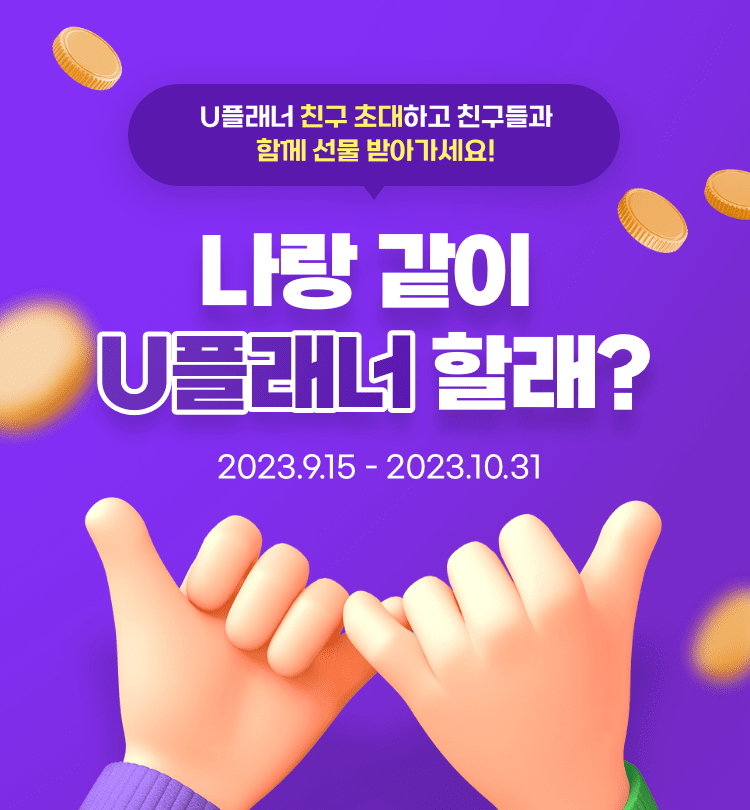
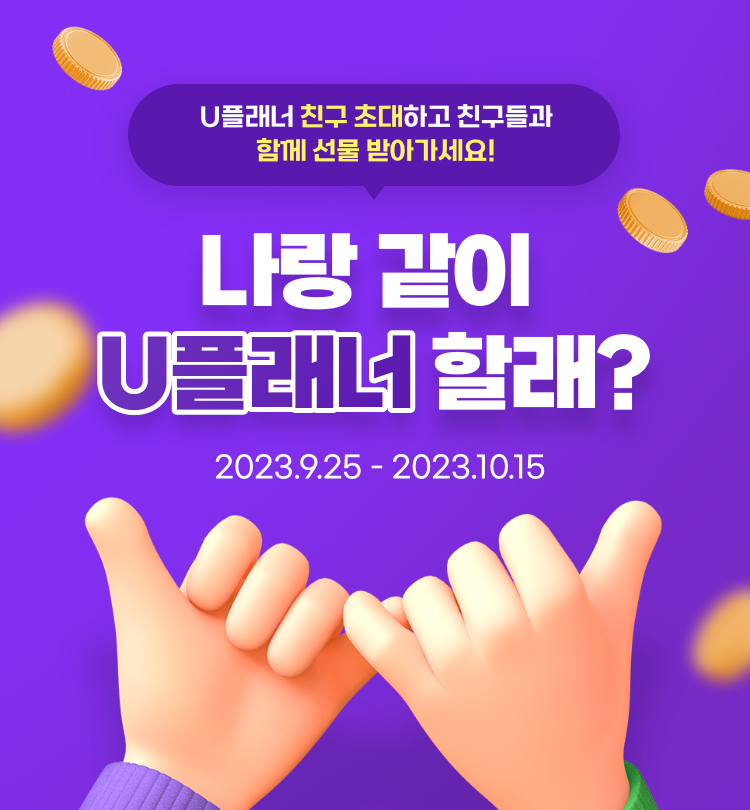
UPLAN-283 친구초대 이벤트 기간, 푸터 텍스트 수정

Changed region(s): [[0.276, 0.5556, 0.736, 0.6173]]

diff --git a/src/html/pages-2301/친구초대이벤트_소개_01_마이데이터연결.html b/src/html/pages-2301/친구초대이벤트_소개_01_마이데이터연결.html
@@ -43,7 +43,7 @@
 								복사하기</button>
 						</div>
 						<div class="btn-wrap">
-							<button class="btn btn-purple-bg btn-block font-weight-bolder">초대 코드 받으러 가기</button>
+							<button class="btn btn-purple-bg btn-block ">초대 링크 공유하기</button>
 						</div>
 					</div>
 					<p class="desc text-white mt-10">
@@ -57,13 +57,12 @@
 					<h3 class="h3">나의 초대 현황</h3>
 					<ul class="mb-10">
 						<li class="coupon-box bg_light_gray mb-10">
-							<p class="new">
-								신규 가입한 친구</p>
+							<p class="new">신규 가입한 친구</p>
 							<p class="number"><span>15</span>명</p>
 						</li>
 						<li class="coupon-box bg-purple text-white">
 							<p>내 보유 교환권</p>
-							<p class="number"><span>10</span>장</p>
+							<p class="number own"><span>10</span>장</p>
 						</li>
 					</ul>
 					<p class="desc">교환권은 <span class="f-point">최대 20장</span>까지 받을 수 있어요.</p>
@@ -71,7 +70,7 @@
 					<div class="order-period text-center">
 						<h3 class="h3">상품 주문 기간</h3>
 						<div class="date">
-							~ 23.11.05 까지
+							~ 2023.10.18 23시
 							<p class="badge badge-pink">D-6</p>
 						</div>
 						<div class="btn-warp">
@@ -82,15 +81,14 @@
 			</div>
 		</div>
 
-		<!-- footer 기획 미정으로 추후 해당 내용 반영할 예정 -->
 		<div class="footer">
 			<h4 class="h4">안내사항</h4>
 			<div class="notice">
 				<h5>[이벤트 기간]</h5>
-				<ul>
-					<li>ㆍ이벤트 참여 기간 : 2023. 09.18 ~</li>
-					<li>ㆍ경품 주문 기간 : 2023.09.18 ~ 10.</li>
-					<li>ㆍ경품 발송 : 2023.10</li>
+				<ul class="text-indent">
+					<li>ㆍ교환권 적립 가능 기간 : 2023.09.25 11시~10.15 23시</li>
+					<li>ㆍ경품 주문 기간 : 2023.09.25 11시~10.18 23시</li>
+					<li>ㆍ경품 발송 기간 : 2023.10.19 ~10.20 &#40;LMS 기프티콘 개별 발송&#41;</li>
 				</ul>
 				<ul class="mt-20">
 					<li>

diff --git a/src/scss/style/modules/event.scss b/src/scss/style/modules/event.scss
@@ -555,9 +555,8 @@ input[type=number] {
           }
 
           .code {
-            font-family: var(--font1);
+            font-family: var(--font2);
             font-size: 20px;
-            font-weight: 500;
             line-height: 24px;
             color: #c2c1cc;
           }
@@ -569,7 +568,6 @@ input[type=number] {
             height: 56px;
             line-height: 56px;
             border-radius: 10px;
-            font-weight: bold;
           }
         }
       }
@@ -600,6 +598,7 @@ input[type=number] {
       justify-content: space-between;
       align-items: center;
       padding: 18px 20px;
+      height: 64px;
       border-radius: 10px;
       overflow: hidden;
 
@@ -622,6 +621,10 @@ input[type=number] {
         &.number {
           font-family: var(--font3) !important;
           font-size: 18px;
+
+          &.own {
+            font-size: 20px;
+          }
 
           &.sheets {
             opacity: 0.5;
@@ -1065,7 +1068,8 @@ input[type=number] {
           color: var(--text-01);
           line-height: 25.5px;
           font-family: var(--font2);
-          b{
+
+          b {
             font-family: var(--font3);
           }
         }
@@ -1188,7 +1192,8 @@ input[type=number] {
         th {
           background-color: #f5f6f8;
         }
-        td{
+
+        td {
           font-family: var(--font1);
           font-weight: normal;
         }
@@ -1260,8 +1265,8 @@ input[type=number] {
 
     .text-indent {
       li {
-        margin-left: 14px;
-        text-indent: -14px;
+        margin-left: 13px;
+        text-indent: -13px;
       }
     }
   }

diff --git a/src/html/pages-2301/친구초대이벤트_소개_02_마이데이터연결안된경우.html b/src/html/pages-2301/친구초대이벤트_소개_02_마이데이터연결안된경우.html
@@ -66,7 +66,7 @@
 					<div class="order-period text-center">
 						<h3 class="h3">상품 주문 기간</h3>
 						<div class="date">
-							~ 23.11.05 까지
+							~ 2023.10.18 23시
 							<p class="badge badge-pink">D-3</p>
 						</div>
 						<div class="btn-warp">
@@ -77,15 +77,14 @@
 			</div>
 		</div>
 
-		<!-- footer 기획 미정으로 추후 해당 내용 반영할 예정 -->
 		<div class="footer">
 			<h4 class="h4">안내사항</h4>
 			<div class="notice">
 				<h5>[이벤트 기간]</h5>
-				<ul>
-					<li>ㆍ이벤트 참여 기간 : 2023. 09.18 ~</li>
-					<li>ㆍ경품 주문 기간 : 2023.09.18 ~ 10.</li>
-					<li>ㆍ경품 발송 : 2023.10</li>
+				<ul class="text-indent">
+					<li>ㆍ교환권 적립 가능 기간 : 2023.09.25 11시~10.15 23시</li>
+					<li>ㆍ경품 주문 기간 : 2023.09.25 11시~10.18 23시</li>
+					<li>ㆍ경품 발송 기간 : 2023.10.19 ~10.20 &#40;LMS 기프티콘 개별 발송&#41;</li>
 				</ul>
 				<ul class="mt-20">
 					<li>

diff --git a/src/html/pages-2301/친구초대이벤트_소개_03_마이데이터연결중도해제.html b/src/html/pages-2301/친구초대이벤트_소개_03_마이데이터연결중도해제.html
@@ -70,7 +70,7 @@
 					<div class="order-period text-center">
 						<h3 class="h3">상품 주문 기간</h3>
 						<div class="date">
-							~ 23.11.05 까지
+							~ 2023.10.18 23시
 							<p class="badge badge-pink">D-6</p>
 						</div>
 						<div class="btn-warp">
@@ -81,15 +81,14 @@
 			</div>
 		</div>
 
-		<!-- footer 기획 미정으로 추후 해당 내용 반영할 예정 -->
 		<div class="footer">
 			<h4 class="h4">안내사항</h4>
 			<div class="notice">
 				<h5>[이벤트 기간]</h5>
-				<ul>
-					<li>ㆍ이벤트 참여 기간 : 2023. 09.18 ~</li>
-					<li>ㆍ경품 주문 기간 : 2023.09.18 ~ 10.</li>
-					<li>ㆍ경품 발송 : 2023.10</li>
+				<ul class="text-indent">
+					<li>ㆍ교환권 적립 가능 기간 : 2023.09.25 11시~10.15 23시</li>
+					<li>ㆍ경품 주문 기간 : 2023.09.25 11시~10.18 23시</li>
+					<li>ㆍ경품 발송 기간 : 2023.10.19 ~10.20 &#40;LMS 기프티콘 개별 발송&#41;</li>
 				</ul>
 				<ul class="mt-20">
 					<li>

diff --git a/src/html/pages-2301/친구초대이벤트_주문_02_주문중.html b/src/html/pages-2301/친구초대이벤트_주문_02_주문중.html
@@ -36,7 +36,7 @@
 				<div class="order order-period">
 					<h3 class="h3">상품 주문 기간</h3>
 					<div class="date">
-						23.09.15 ~ 23.11.05
+						2023.09.25 ~ 2023.10.18 23시
 						<p class="badge badge-pink">D-6</p>
 					</div>
 
@@ -147,7 +147,7 @@
 <script>
 	$(document).ready(function () {
 		$('.minus').click(function () {
-			if ($(this).next().val() > 1) $(this).next().val(+$(this).next().val() - 1);
+			if ($(this).next().val() > 0) $(this).next().val(+$(this).next().val() - 1);
 		});
 		$('.plus').click(function () {
 			$(this).prev().val(+$(this).prev().val() + 1);

diff --git a/src/html/pages-2301/친구초대이벤트_주문_03_주문완료.html b/src/html/pages-2301/친구초대이벤트_주문_03_주문완료.html
@@ -36,7 +36,7 @@
 				<div class="order order-period">
 					<h3 class="h3">상품 주문 기간</h3>
 					<div class="date">
-						23.09.15 ~ 23.11.05
+						2023.09.25 ~ 2023.10.18 23시
 						<p class="badge badge-pink">D-6</p>
 					</div>
 

diff --git a/src/html/pages-2301/친구초대이벤트_주문_04_주문기간만료.html b/src/html/pages-2301/친구초대이벤트_주문_04_주문기간만료.html
@@ -36,7 +36,7 @@
 				<div class="order order-period">
 					<h3 class="h3">상품 주문 기간</h3>
 					<div class="date">
-						23.09.15 ~ 23.11.05
+						2023.09.25 ~ 2023.10.18 23시
 						<p class="badge badge-pink">D-6</p>
 					</div>
 

diff --git a/src/html/pages-2301/친구초대이벤트_주문_01_버튼하단고정.html b/src/html/pages-2301/친구초대이벤트_주문_01_버튼하단고정.html
@@ -36,7 +36,7 @@
 				<div class="order order-period">
 					<h3 class="h3">상품 주문기간</h3>
 					<div class="date">
-						23.09.15 ~ 23.11.05
+						2023.09.25 ~ 2023.10.18 23시
 						<p class="badge badge-pink">D-6</p>
 					</div>
 

diff --git a/src/html/pages-2301/친구초대이벤트_주문_01_최초주문전.html b/src/html/pages-2301/친구초대이벤트_주문_01_최초주문전.html
@@ -36,7 +36,7 @@
 				<div class="order order-period">
 					<h3 class="h3">상품 주문기간</h3>
 					<div class="date">
-						23.09.15 ~ 23.11.05
+						2023.09.25 ~ 2023.10.18 23시
 						<p class="badge badge-pink">D-6</p>
 					</div>
 

diff --git a/src/scss/style/modules/btn.scss b/src/scss/style/modules/btn.scss
@@ -25,6 +25,7 @@ a:hover {
         left: 50%;
         bottom: 0;
         transform: translateX(-50%);
+        padding-top: 8px;
         padding-bottom: 30px;
         width: 100%;
         background-color: #fff;
